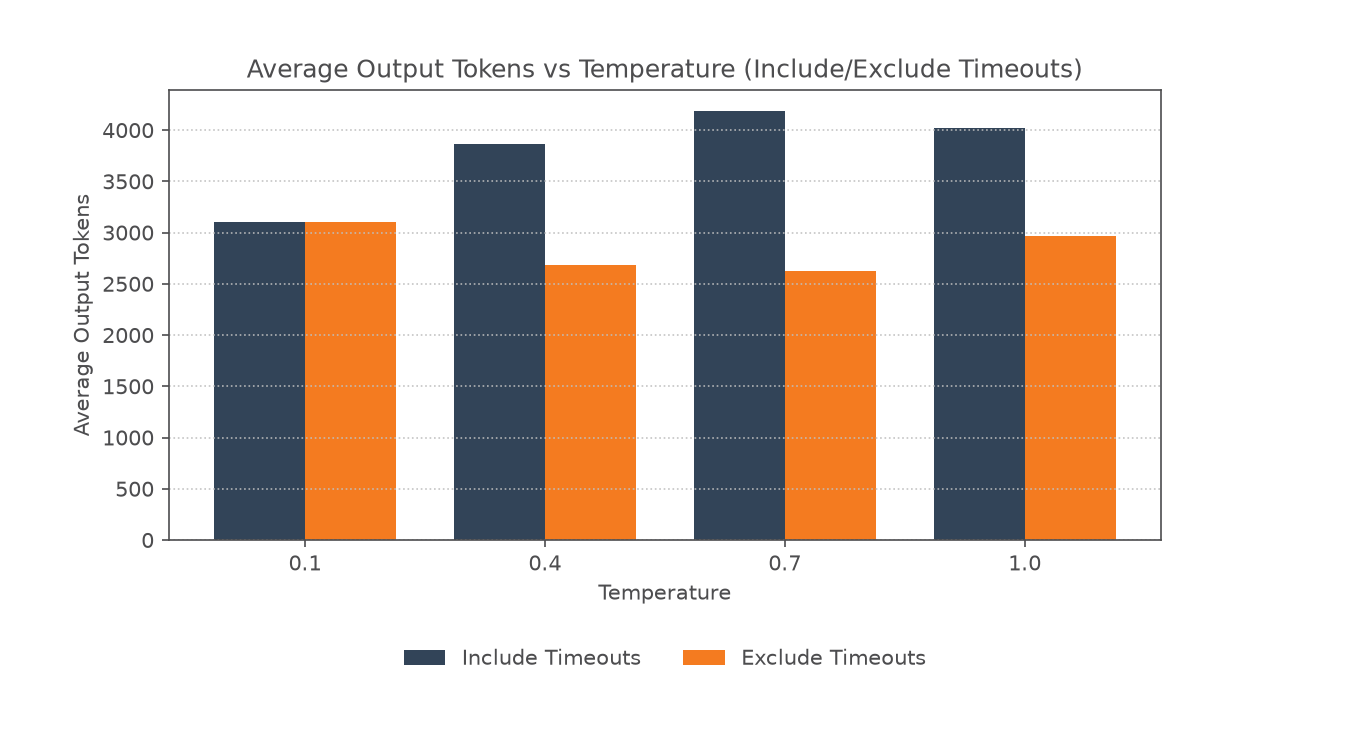
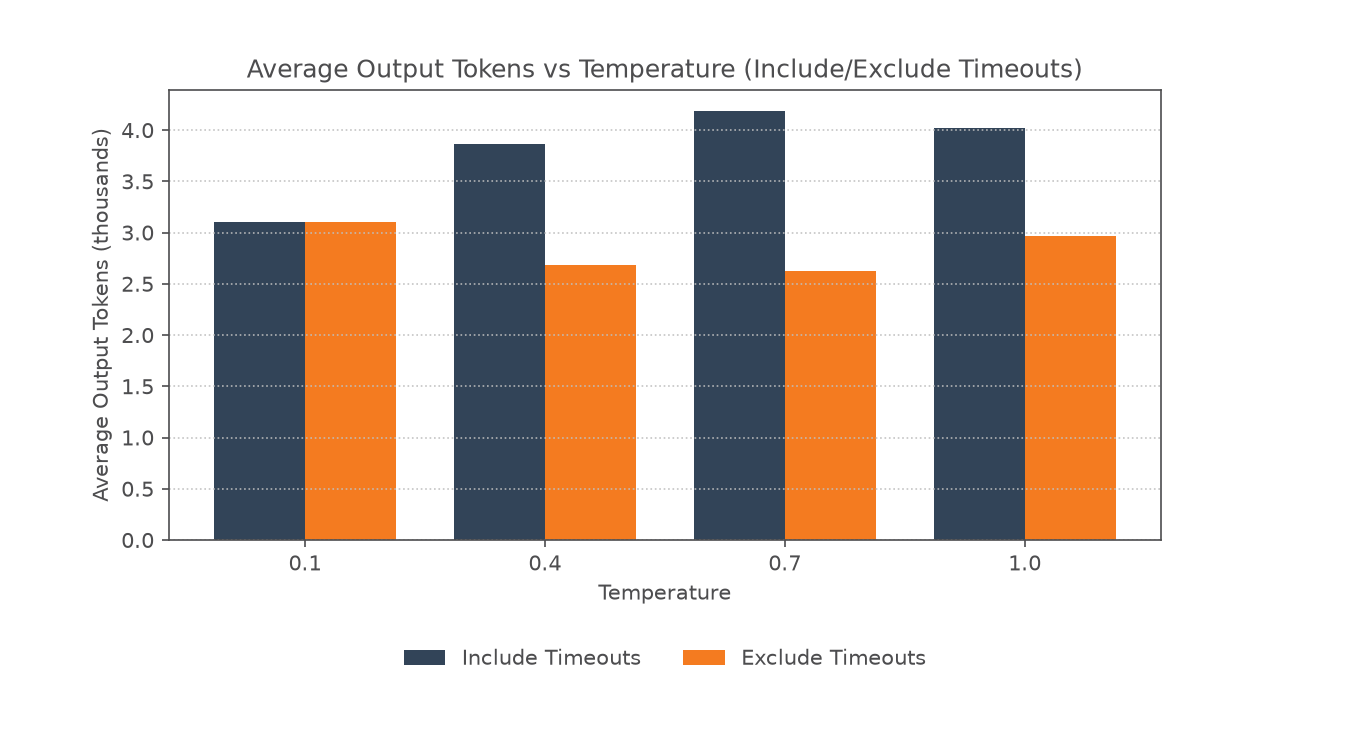
Modified plots to align with PME themes.

Changed region(s): [[0.0622, 0.1533, 0.1244, 0.6747]]

diff --git a/YAML_creation/Temperature_Testing/temptest_analysis.py b/YAML_creation/Temperature_Testing/temptest_analysis.py
@@ -165,8 +165,12 @@ def plot_parameter_dual_bar(
 	y_label: str,
 	output_path: Path,
 	include_overall_lines: bool = False,
+	value_scale: float = 1.0,
 ) -> None:
 	"""Plot include-timeouts vs exclude-timeouts bar chart by temperature."""
+	if value_scale <= 0:
+		raise ValueError("value_scale must be greater than 0")
+
 	include_series = _mean_by_temperature(df, column, exclude_timeouts=False)
 	exclude_series = _mean_by_temperature(df, column, exclude_timeouts=True)
 
@@ -177,22 +181,22 @@ def plot_parameter_dual_bar(
 	fig, ax = plt.subplots(figsize=(9, 5))
 	ax.bar(
 		x - bar_width / 2,
-		include_series.values,
+		include_series.values / value_scale,
 		bar_width,
 		label="Include Timeouts",
 		color=PRIMARY_PLOT_COLOR_1,
 	)
 	ax.bar(
 		x + bar_width / 2,
-		exclude_series.values,
+		exclude_series.values / value_scale,
 		bar_width,
 		label="Exclude Timeouts",
 		color=PRIMARY_PLOT_COLOR_2,
 	)
 
 	if include_overall_lines:
-		overall_with = df[column].mean()
-		overall_without = df.loc[~df["timed_out"], column].mean()
+		overall_with = df[column].mean() / value_scale
+		overall_without = df.loc[~df["timed_out"], column].mean() / value_scale
 		ax.axhline(
 			overall_with,
 			color=ACCESSORY_LINE_COLOR,
@@ -326,15 +330,17 @@ def plot_temperature_metrics(df: pd.DataFrame, output_dir: Path) -> list[Path]:
 		df=df,
 		column="total_tokens",
 		title="Average Total Tokens vs Temperature (Include/Exclude Timeouts)",
-		y_label="Average Total Tokens",
+		y_label="Average Total Tokens (thousands)",
 		output_path=output_paths[1],
+		value_scale=1000.0,
 	)
 	plot_parameter_dual_bar(
 		df=df,
 		column="output_tokens",
 		title="Average Output Tokens vs Temperature (Include/Exclude Timeouts)",
-		y_label="Average Output Tokens",
+		y_label="Average Output Tokens (thousands)",
 		output_path=output_paths[2],
+		value_scale=1000.0,
 	)
 	plot_parameter_dual_bar(
 		df=df,